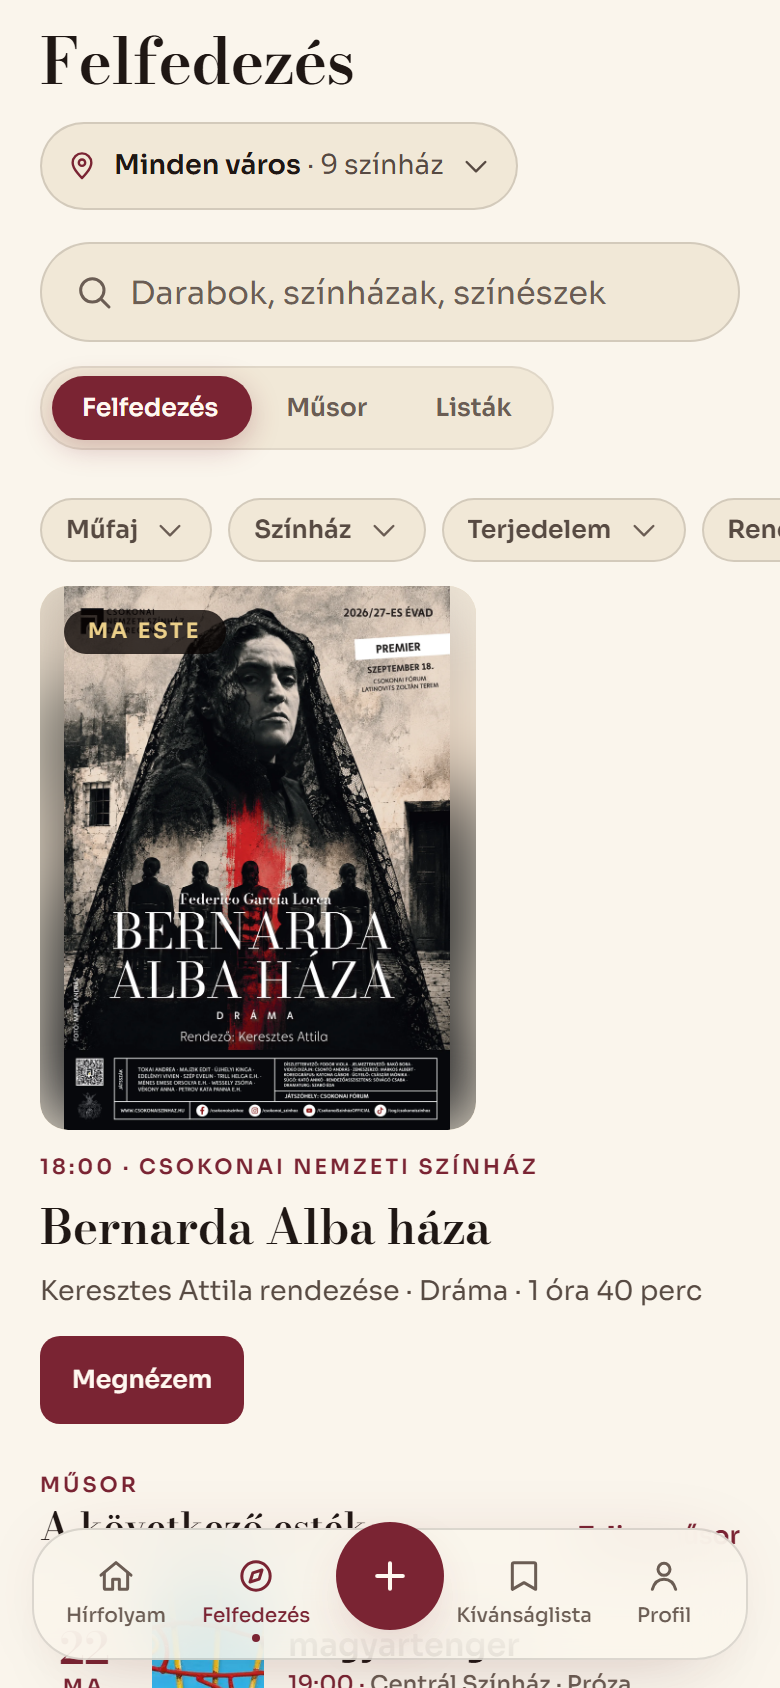
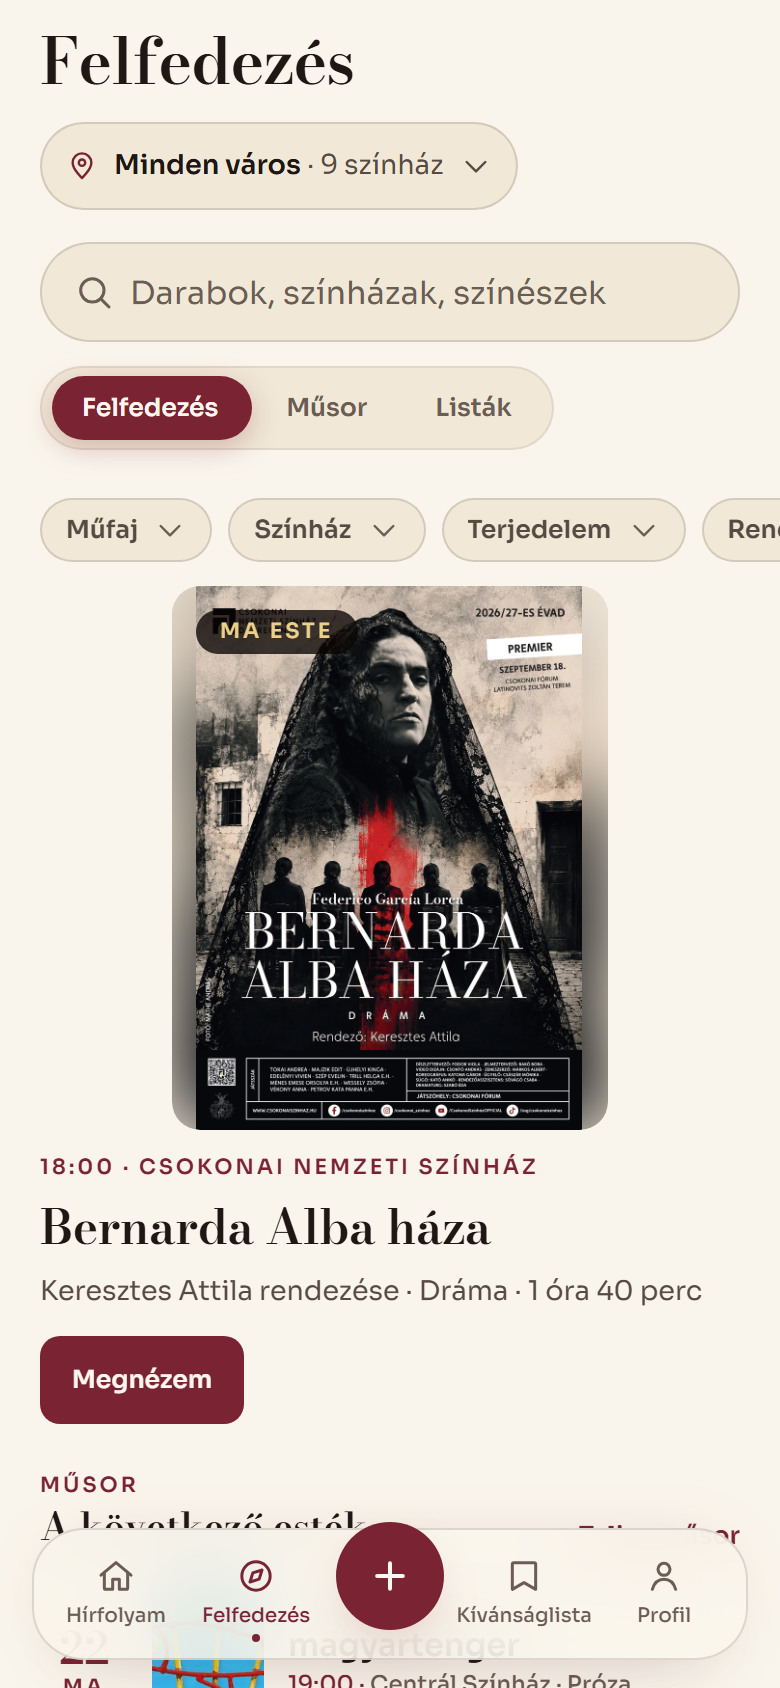
Fix the bar's search field and the gap beside the lead
Both from Ottó's second look at the preview.

The search field in the top bar had lost its magnifier and was spilling
its placeholder out over the log button. Two faults in the shared field,
so both are fixed there rather than in the bar: the icon sat in a flex
row that was free to shrink it, and at a narrow width it was shrunk to
nothing; and a flex item may not shrink below its own content unless it
is told it may, so a placeholder longer than the box pushed out of it.
The icon keeps its width now, the input may shrink, and the box clips
what is still too long. In the bar the field takes what the brand, the
sections and the actions leave, never less than 128, and it says
"Keresés" rather than the screen's own three-word placeholder, which
arrived there cut in half.

The lead's column was still a flex share of the row while the picture
inside it had become as wide as its own height allowed, which left a
hand's breadth of empty ground between the poster and the programme
beside it. The column is a poster's width now. Fixed rather than
derived from the picture, because the caption wraps to this column and
the caption's height is what decides the picture's height: a column that
followed the picture would be a circle. On a phone the poster is centred
instead, where the column is the screen and the picture has been
shortened to fit it.

Changed region(s): [[0.0308, 0.3389, 0.8, 0.6777]]

diff --git a/app/(tabs)/discover.tsx b/app/(tabs)/discover.tsx
@@ -1153,6 +1153,13 @@ const HERO_ASPECT = 4 / 4.6;
 /** What the caption is assumed to cost before it has been measured once. */
 const CAPTION_FALLBACK = 180;
 
+/**
+ * The lead's column on a wide screen: wide enough for the credit line to sit
+ * on one line under the picture, narrow enough that a poster shortened to fit
+ * the window does not leave much ground beside it.
+ */
+const HERO_COLUMN_WIDTH = 400;
+
 /** Below these the lead stops being a picture and becomes a strip. */
 const MIN_LEAD_HEIGHT = 320;
 const MIN_POSTER_HEIGHT = 160;
@@ -1205,6 +1212,7 @@ function TonightHero({
   // left either way.
   const [captionHeight, setCaptionHeight] = useState(CAPTION_FALLBACK);
   const posterHeight = Math.max(MIN_POSTER_HEIGHT, available - captionHeight - space.md);
+  const aspect = posterAspect(entry.poster, HERO_ASPECT);
 
   return (
     <View style={tall ? styles.heroTall : undefined}>
@@ -1214,7 +1222,7 @@ function TonightHero({
         onPress={onPress}
         accessibilityRole="button"
         accessibilityLabel={entry.title}
-        style={[styles.poster, { aspectRatio: posterAspect(entry.poster, HERO_ASPECT), height: posterHeight }]}
+        style={[styles.poster, tall ? styles.posterWide : styles.posterPhone, { aspectRatio: aspect, height: posterHeight }]}
         surfaceStyle={{ flex: 1 }}
         radius={radius.lg}
         tilt={4}
@@ -1374,7 +1382,18 @@ const useStyles = makeStyles((colors) => StyleSheet.create({
   leadSide: { flex: 1 },
   leadStacked: { marginTop: space["2xl"] },
 
-  heroTall: { flex: 1.35, alignSelf: "flex-start" },
+  /*
+   * A column the width of a poster, not a share of the row.
+   *
+   * It was `flex: 1.35`, which was right while the picture filled whatever
+   * width it was given; now that the picture is sized to fit the screen's
+   * height, a flex share left a hand's breadth of empty ground between it
+   * and the programme beside it. Fixed rather than derived from the
+   * picture's own width, because the caption under it wraps to this column
+   * and its height is what decides the picture's height: a column that
+   * followed the picture would be a circle.
+   */
+  heroTall: { width: HERO_COLUMN_WIDTH, alignSelf: "flex-start" },
   /*
    * No width of its own: with a height and an aspect ratio set, the frame
    * derives its width, so the poster keeps its own shape at the largest size
@@ -1383,7 +1402,13 @@ const useStyles = makeStyles((colors) => StyleSheet.create({
    * eyebrow, its title and its button then share one margin, which is the
    * grid the rest of the page is on.
    */
-  poster: { alignSelf: "flex-start", maxWidth: "100%", borderRadius: radius.lg, overflow: "hidden", backgroundColor: colors.surface2 },
+  poster: { maxWidth: "100%", borderRadius: radius.lg, overflow: "hidden", backgroundColor: colors.surface2 },
+  // On a wide screen the column is the picture's width, so the two agree on
+  // a left edge; on a phone the column is the screen and a poster that has
+  // been shortened to fit sits in the middle of it rather than against one
+  // side with the ground showing at the other.
+  posterWide: { alignSelf: "flex-start" },
+  posterPhone: { alignSelf: "center" },
   heroBadge: { position: "absolute", top: space.md, left: space.md },
   heroCaption: { gap: space.sm, paddingTop: space.md },
   heroButton: { alignSelf: "flex-start", marginTop: space.xs },

diff --git a/components/ui/TopBar.tsx b/components/ui/TopBar.tsx
@@ -116,7 +116,10 @@ export function TopBar() {
           <SearchField
             value={query}
             onChangeText={setQuery}
-            placeholder={strings.discover.searchPlaceholder}
+            // The short form: the bar's field is a fraction of the width
+            // the screen's own field has, and "Darabok, színházak, színészek"
+            // arrives there already cut in half.
+            placeholder={strings.discover.searchOpen}
             accessibilityLabel={strings.discover.searchLabel}
             onSubmit={() => {
               const term = query.trim();
@@ -178,12 +181,13 @@ const useStyles = makeStyles((colors) => StyleSheet.create({
     alignItems: "center",
     gap: space.lg,
   },
-  brand: { flexDirection: "row", alignItems: "center", gap: space.sm },
-  // The bar's one flexible column: the nav is as wide as its four words, the
-  // actions as wide as they are, and the field takes the rest.
-  search: { flex: 1, maxWidth: maxWidth.reading / 2 },
-  nav: { flexDirection: "row", alignItems: "center" },
-  actions: { flexDirection: "row", alignItems: "center", gap: space.md },
+  brand: { flexDirection: "row", alignItems: "center", gap: space.sm, flexShrink: 0 },
+  // The bar's one flexible column, and the only one that may shrink: the
+  // brand, the sections and the actions are each as wide as their words, and
+  // the field takes what is left between them.
+  search: { flex: 1, minWidth: space["5xl"] * 2, maxWidth: maxWidth.reading / 2 },
+  nav: { flexDirection: "row", alignItems: "center", flexShrink: 0 },
+  actions: { flexDirection: "row", alignItems: "center", gap: space.md, flexShrink: 0 },
   // `overflow: visible` matters: the badge is positioned outside the bell's
   // own box, and clipping it would leave a bell that never looks like it has
   // anything in it.

diff --git a/components/ui/SearchField.tsx b/components/ui/SearchField.tsx
@@ -87,7 +87,13 @@ export function SearchField({
       style={[styles.field, prominent && styles.prominent, focused && styles.focused]}
       accessibilityRole={Platform.OS === "web" ? ("search" as never) : undefined}
     >
-      <SearchIcon size={prominent ? icon.chrome : icon.inline} color={focused ? colors.gold : colors.textFaint} />
+      {/* In its own box, so a narrow field — the top bar's, on a laptop —
+          shrinks the text rather than the magnifier. A flex row shrinks
+          whatever it can, and an icon at nought pixels reads as a field
+          somebody forgot to finish. */}
+      <View style={styles.icon}>
+        <SearchIcon size={prominent ? icon.chrome : icon.inline} color={focused ? colors.gold : colors.textFaint} />
+      </View>
       <TextField
         bare
         ref={inputRef}
@@ -146,7 +152,12 @@ const useStyles = makeStyles((colors) => StyleSheet.create({
     borderWidth: hairlineWidth,
     borderColor: colors.hairline,
     backgroundColor: colors.surface,
+    // A long placeholder in a short field spilled out over whatever sat
+    // beside it: a flex item may not shrink below its content unless it is
+    // told it may, and the box has to clip what is still too long.
+    overflow: "hidden",
   },
+  icon: { flexShrink: 0 },
   prominent: {
     minHeight: control.lg,
   },
@@ -156,6 +167,7 @@ const useStyles = makeStyles((colors) => StyleSheet.create({
   },
   input: {
     flex: 1,
+    minWidth: 0,
     // Zero vertical padding: the row's minHeight is the height, so the text
     // sits centred instead of on a padding of its own.
     paddingVertical: 0,
